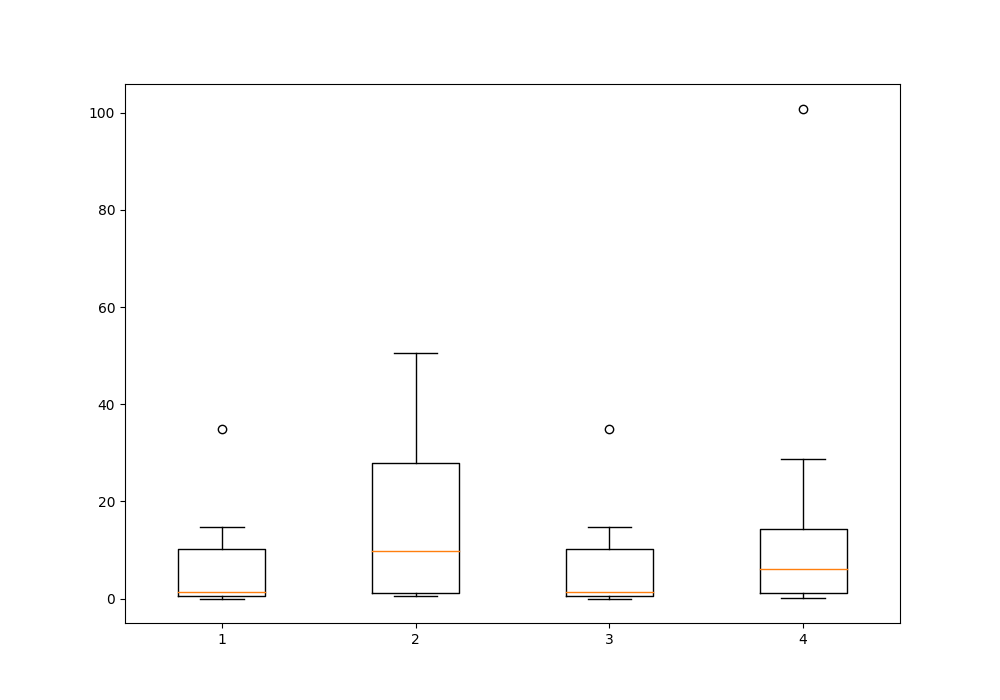
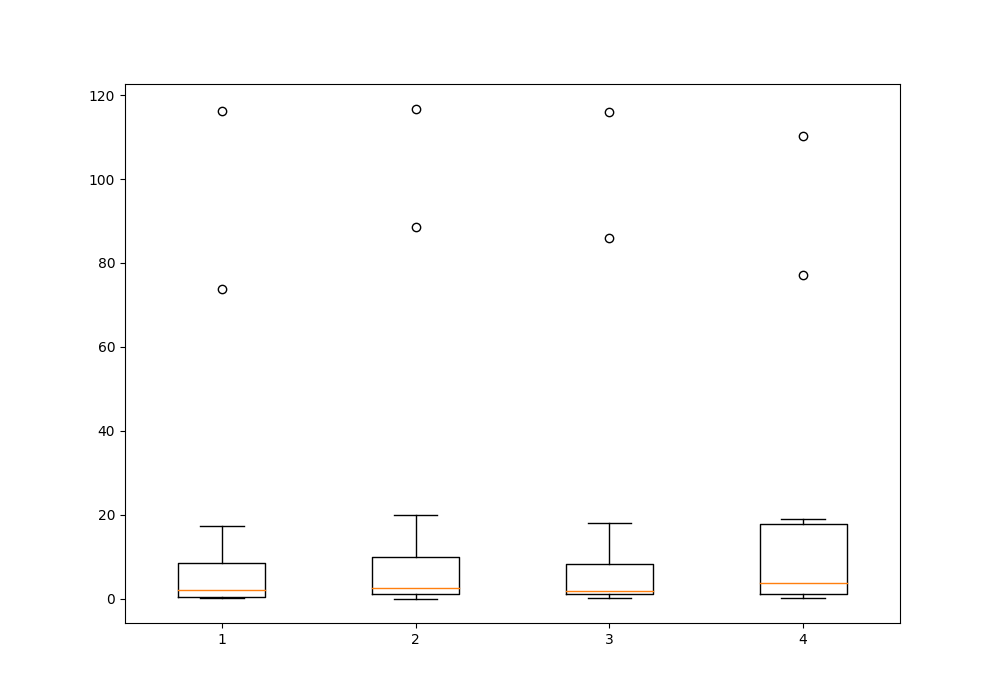
Correcao: diferenciar rps3 e rps1

diff --git a/teste.py b/teste.py
@@ -100,7 +100,7 @@ for function in functions:
         nmMedia += function(nmP)
     rps1Medias.append(rps1Media / qtd)
     rps2Medias.append(rps2Media / qtd)
-    rps3Medias.append(rps1Media / qtd)
+    rps3Medias.append(rps3Media / qtd)
     nmMedias.append(nmMedia / qtd)
 
 data = [
